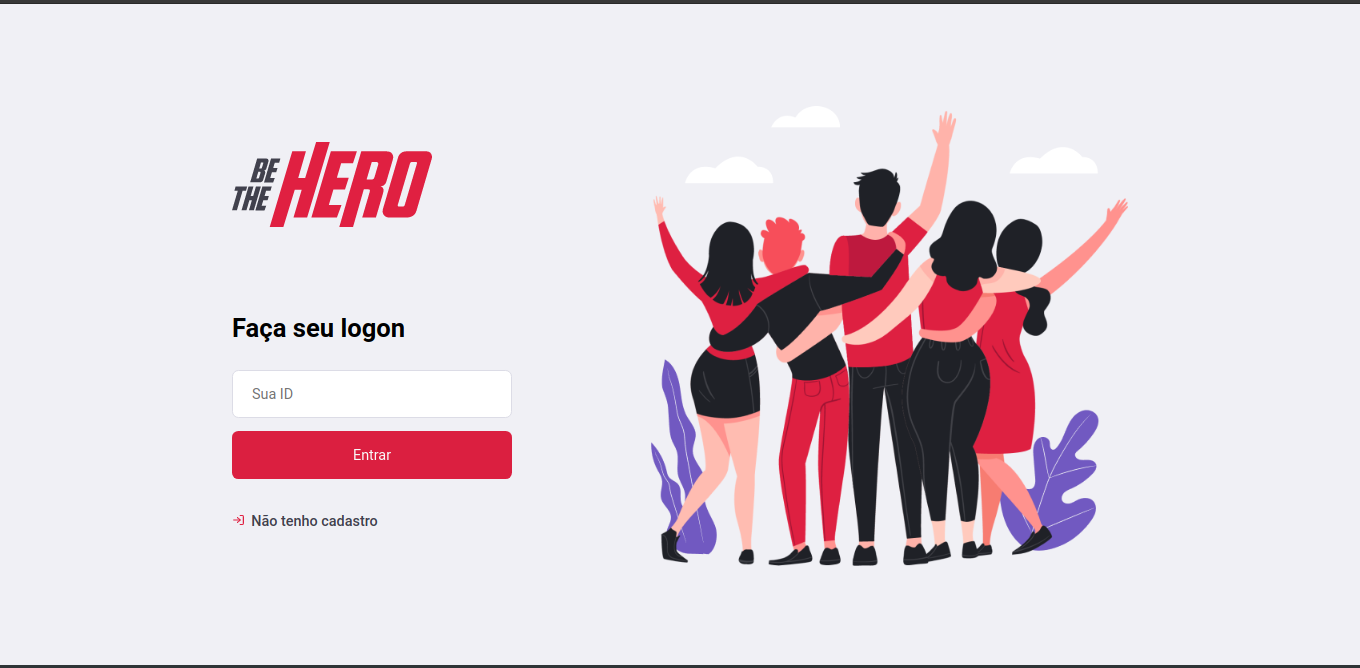
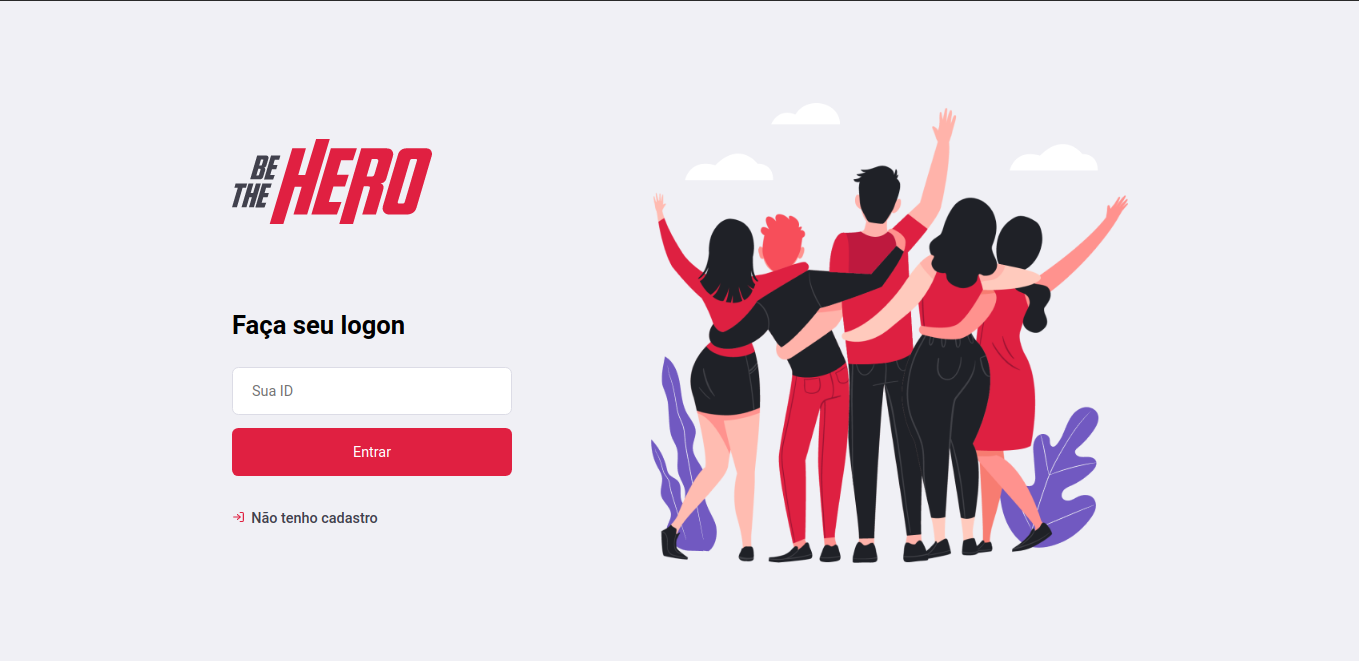
Alteração de documentação da aplicação

diff --git a/README.md b/README.md
@@ -3,7 +3,7 @@
   <b>Seja um heroi e adote uma causa!</b> 
 </h3>
 <p align="center">
-<img src="./assets/TelaLogin.png" width="600px" />
+<img src="./assets/TelaLogin.png" width="950px" />
 </p>
 
 <br>
